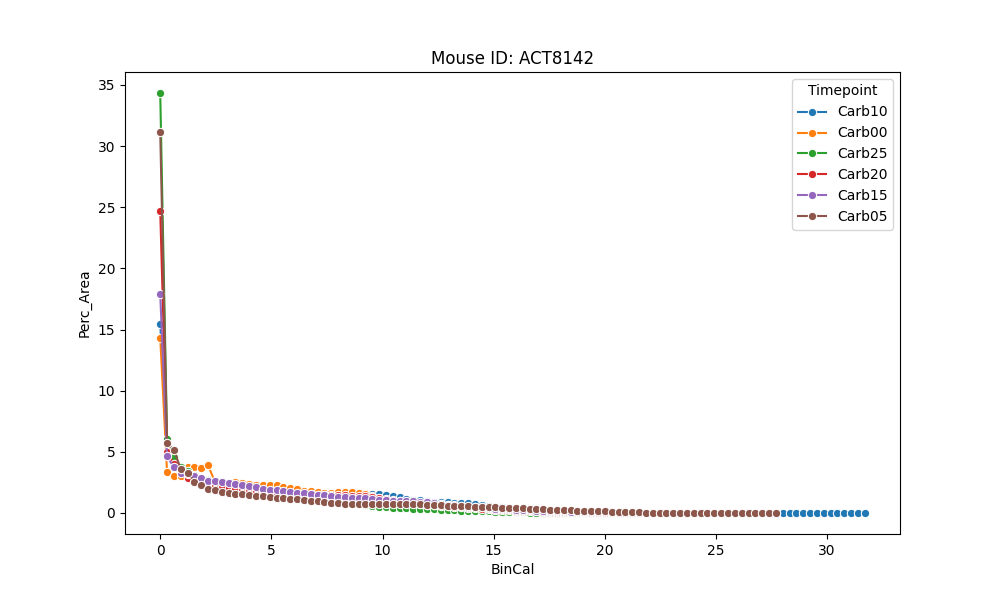
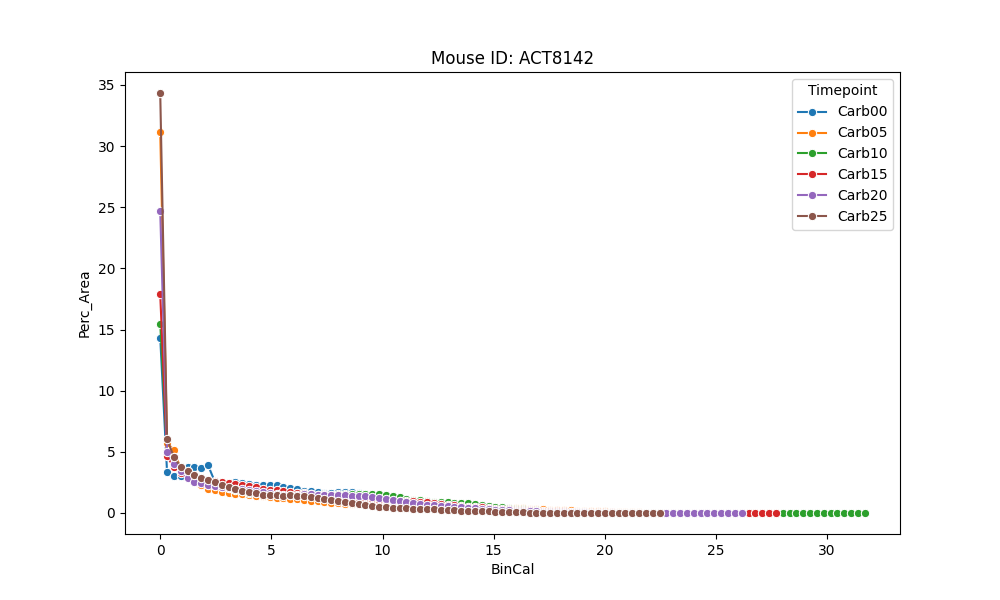
sort dataframes by Timepoint when making plots

diff --git a/src/plot_generator.py b/src/plot_generator.py
@@ -17,8 +17,10 @@ class PlotGenerator:
             folder_path: The path to the folder where the plot will be saved.
             mouse_id: The ID of the mouse, used for naming the plot file.
         """
+
+        sorted_data_frames = data_frames.sort_values(by='Timepoint')
         plt.figure(figsize=(10, 6))
-        sns.lineplot(data=data_frames, x='BinCal', y='Perc_Area', hue='Timepoint', marker='o', style='Timepoint', dashes=False)
+        sns.lineplot(data=sorted_data_frames, x='BinCal', y='Perc_Area', hue='Timepoint', marker='o', style='Timepoint', dashes=False)
         
         plt.xlabel('BinCal')
         plt.ylabel('Perc_Area')
